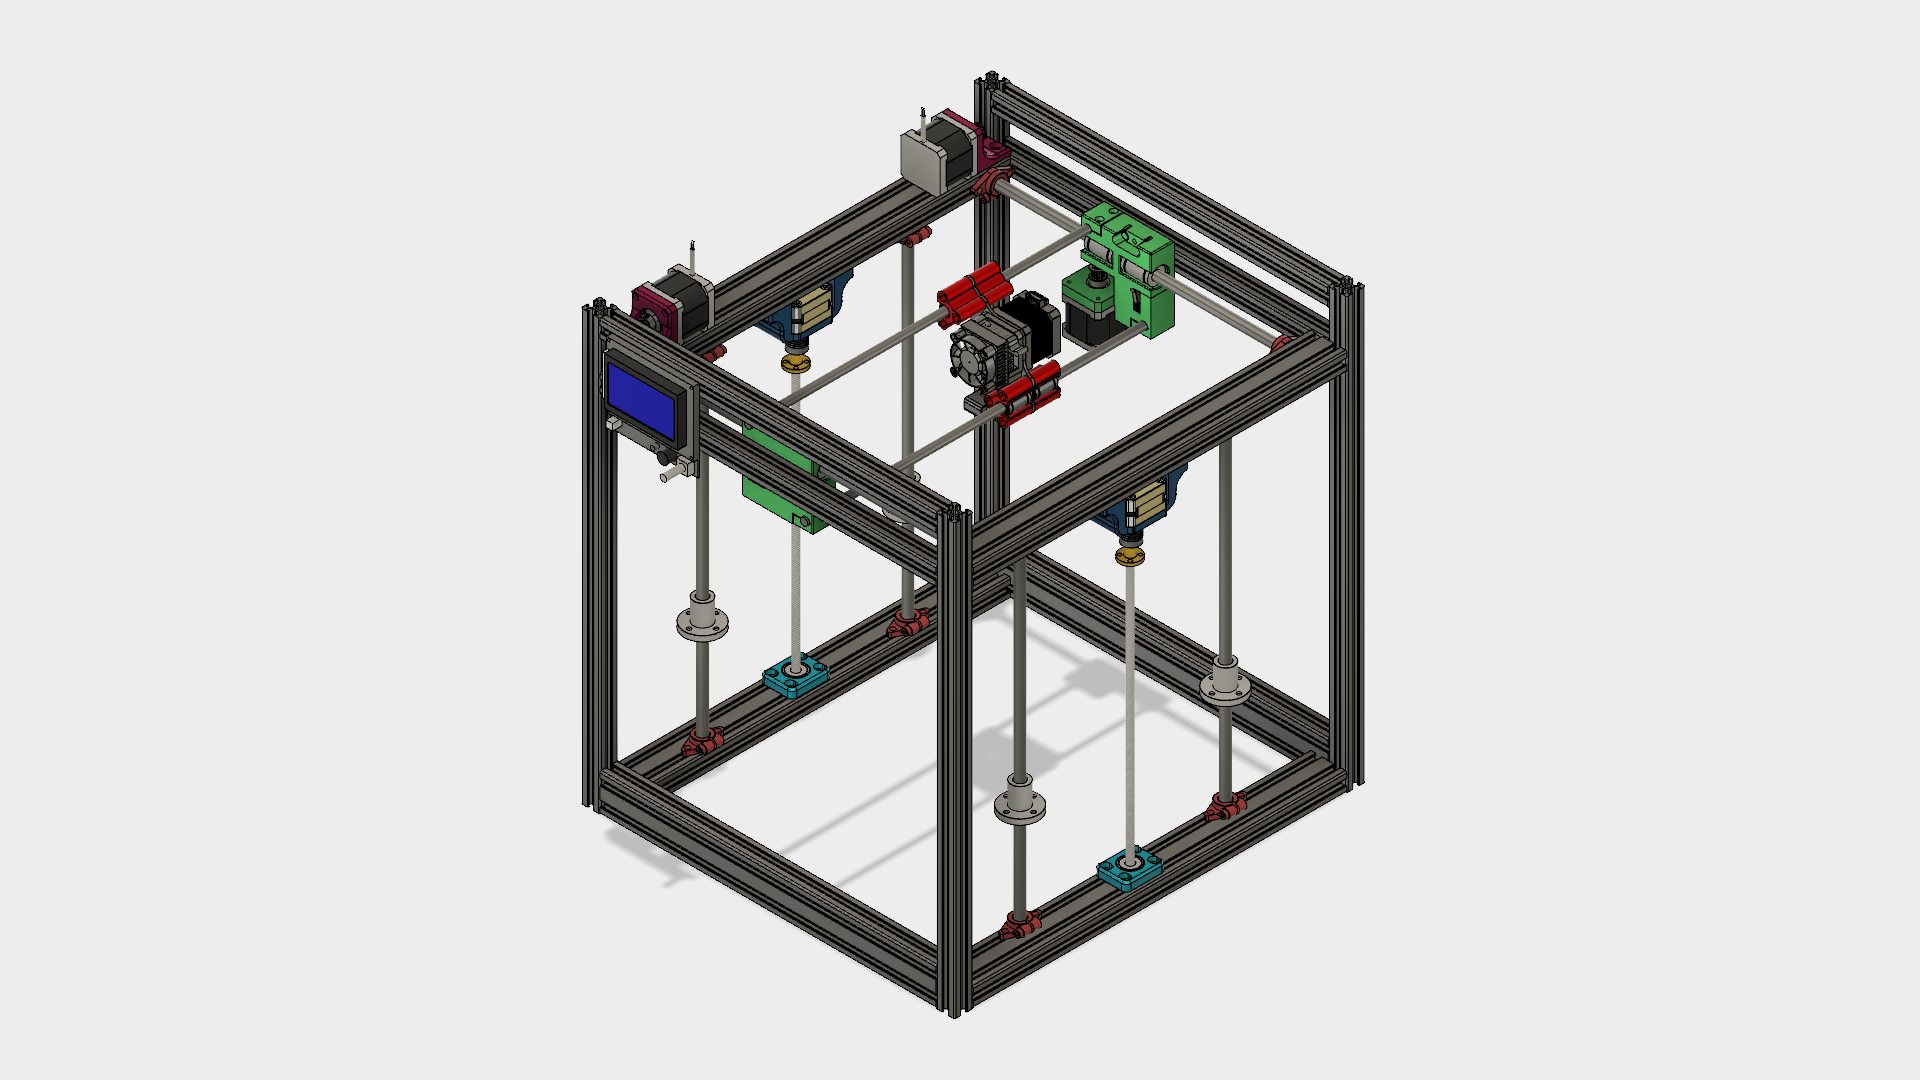
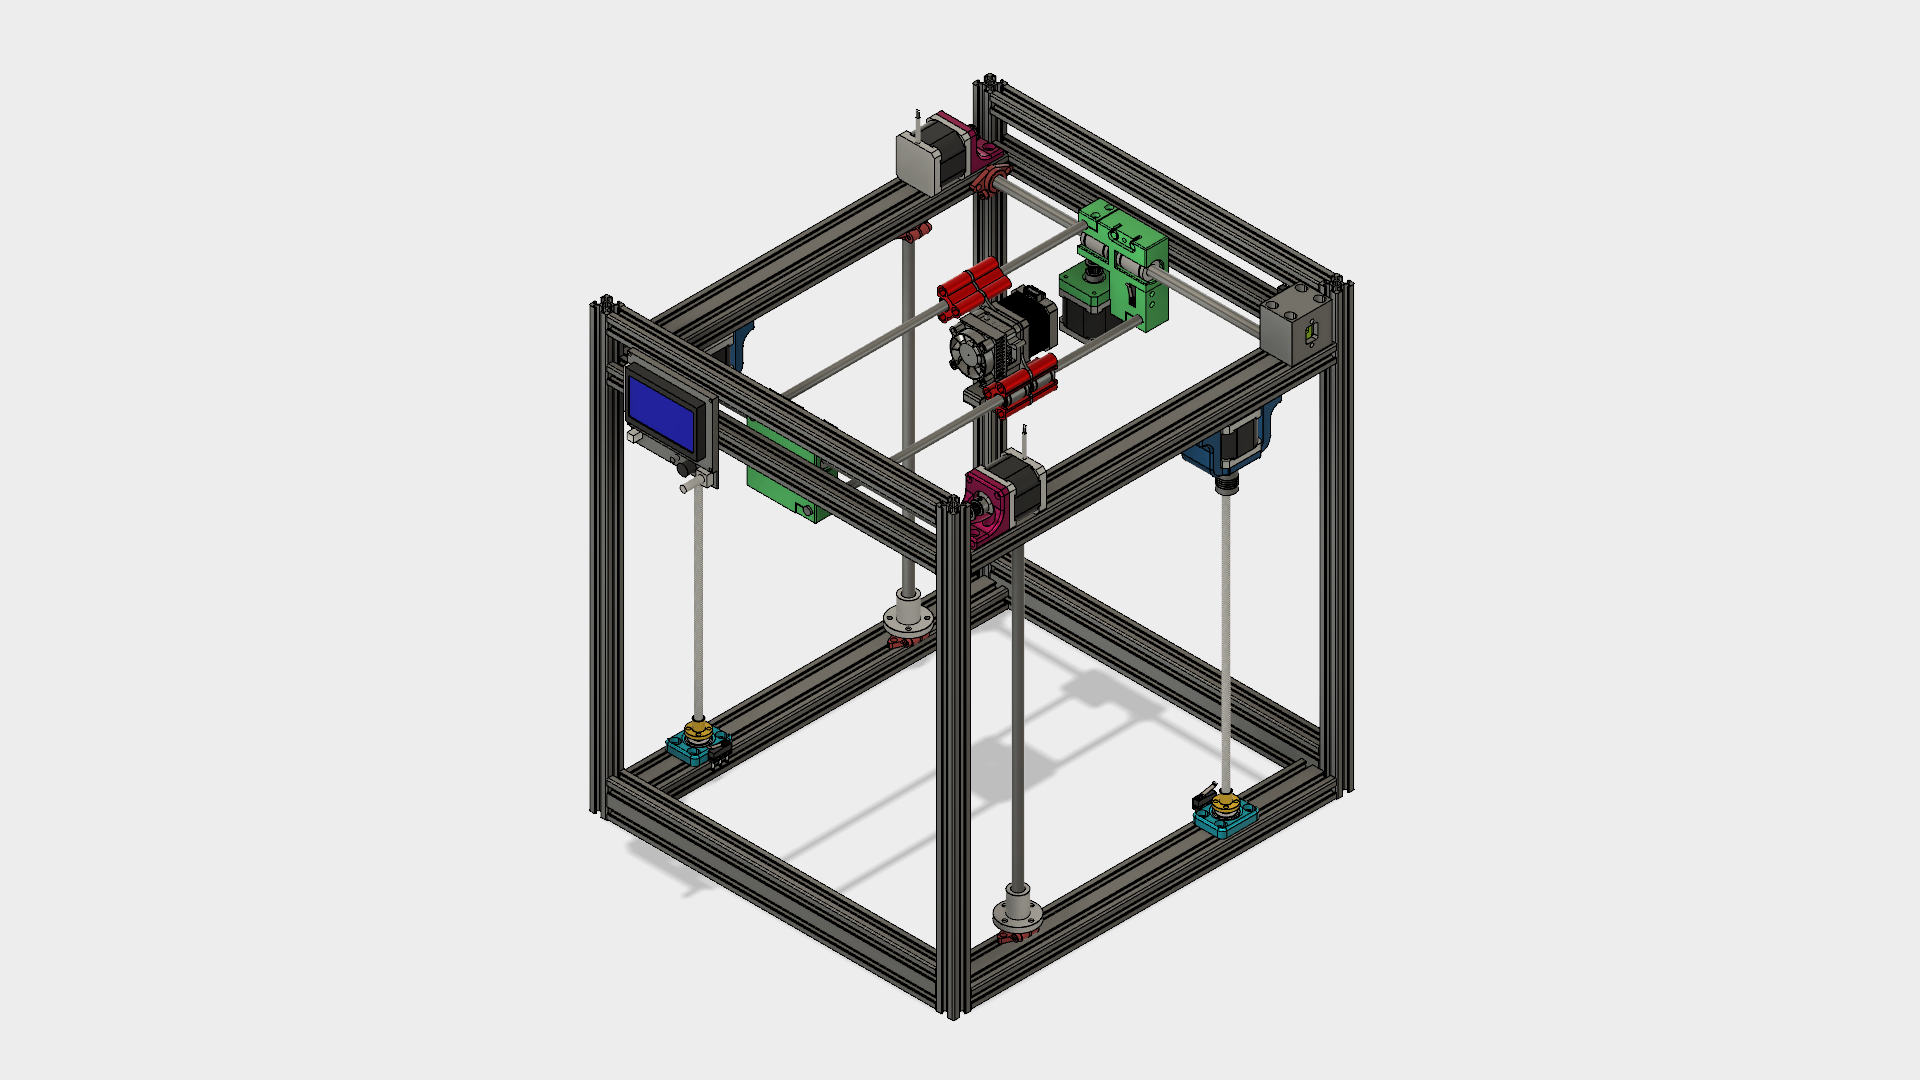
Change from 4 shaft for bed to 2 shaft in diagonale. Motors  with trapezoidal lead moved to second diagonale.

Changed region(s): [[0.2812, 0.0611, 0.7188, 0.9472]]

diff --git a/README.md b/README.md
@@ -6,4 +6,7 @@ Make 3d printer
 - with minimum printed parts ( It´s hard to make 3d printer without 3d printer )
 - use minimum different parts
 
+<img src="Images/celek.png">
+
 <img src="Images/Pojezd.png">
+
